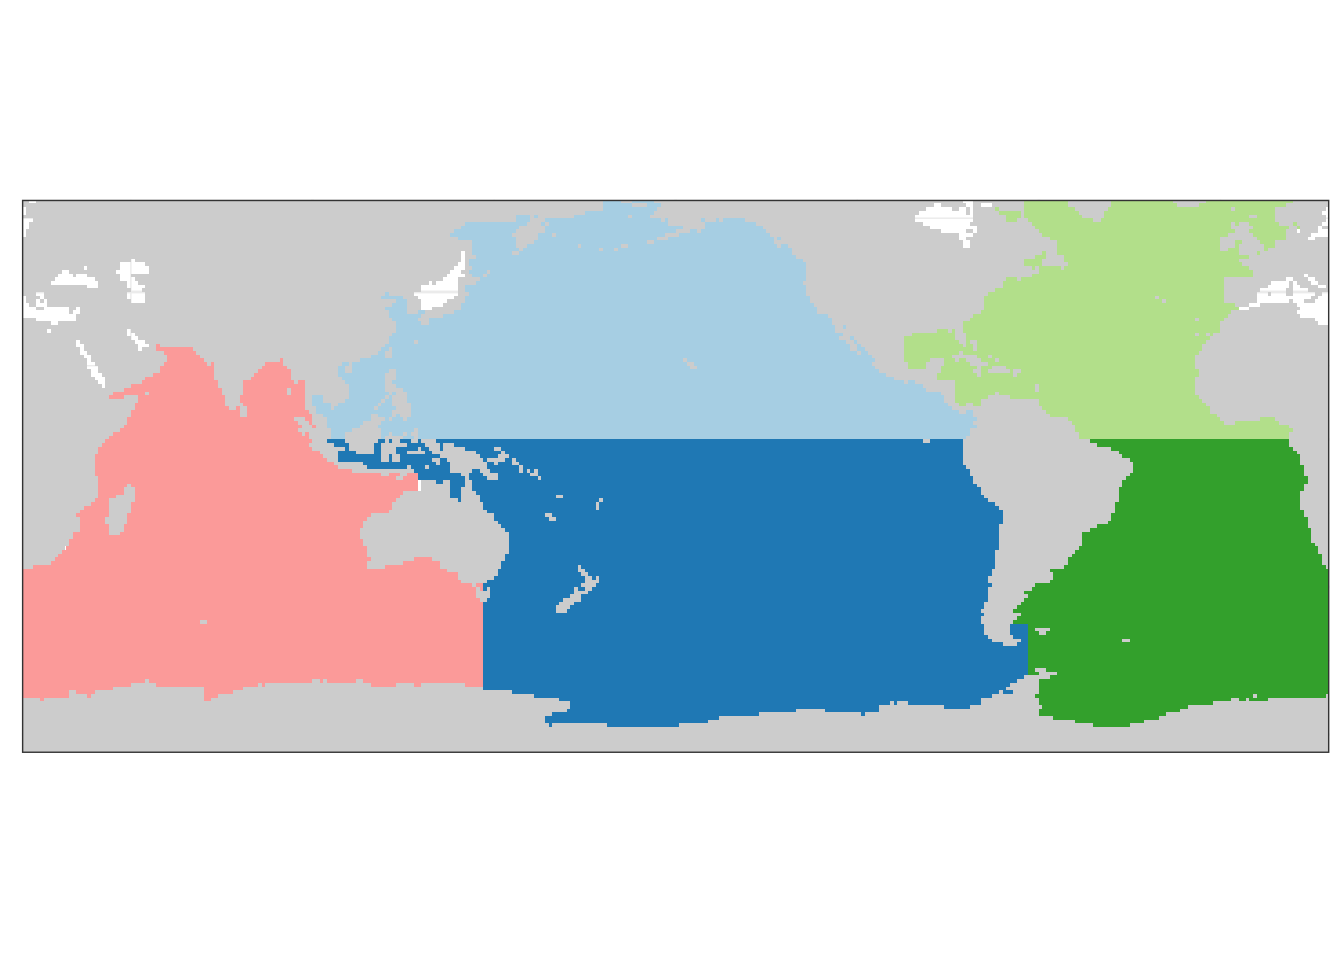
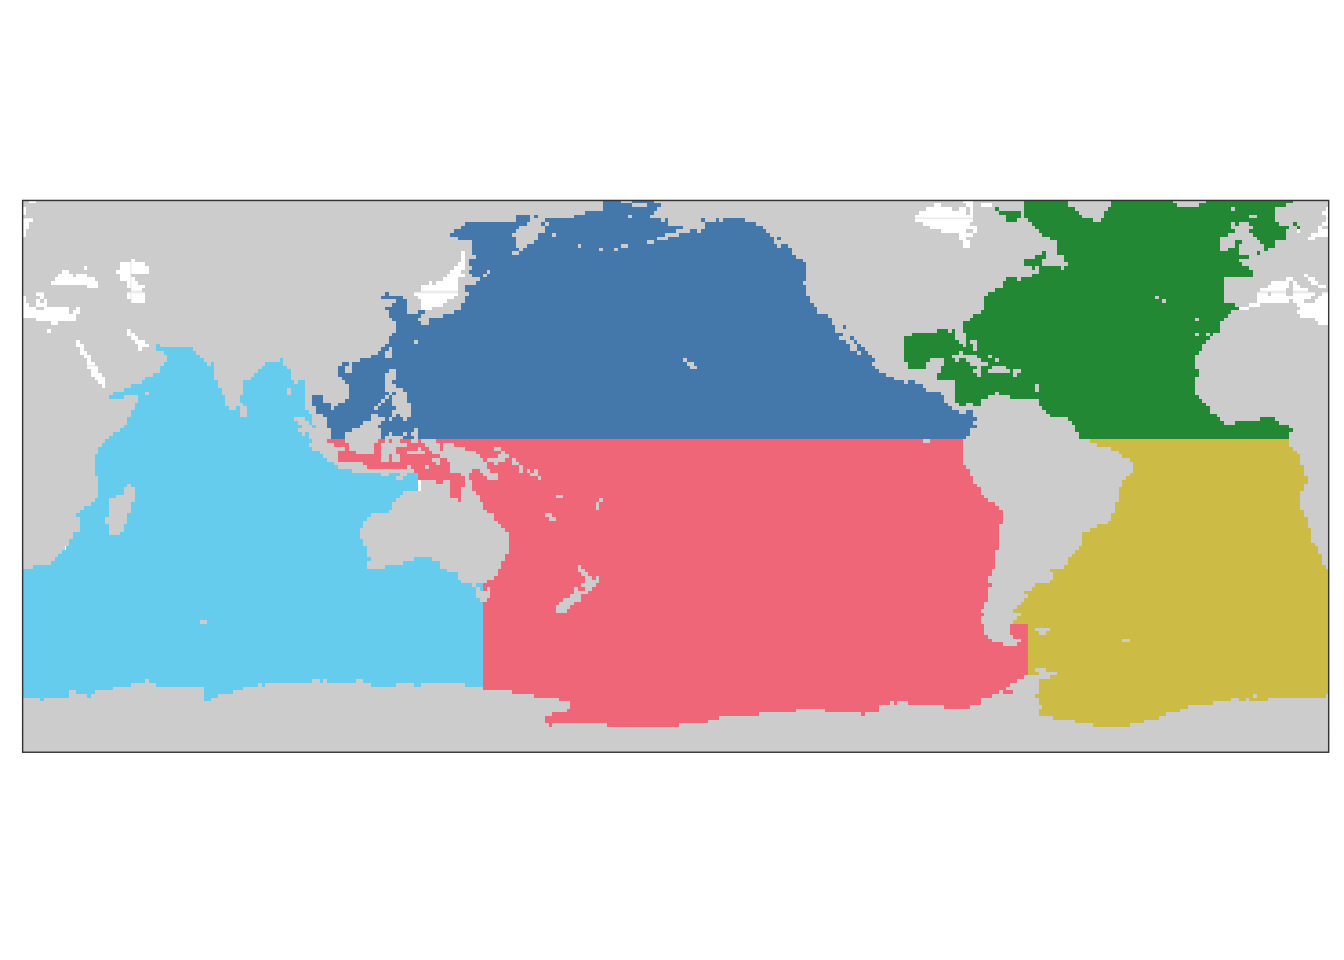
Build site.

diff --git a/docs/basics.html b/docs/basics.html
@@ -664,7 +664,7 @@ div.tocify {
 
 <h1 class="title toc-ignore">Basics</h1>
 <h4 class="author">Jens Daniel Müller</h4>
-<h4 class="date">16 July, 2022</h4>
+<h4 class="date">19 July, 2022</h4>
 
 </div>
 
@@ -689,7 +689,7 @@ div.tocify {
 <div class="tab-content">
 <div id="summary" class="tab-pane fade in active">
 <p>
-<strong>Last updated:</strong> 2022-07-16
+<strong>Last updated:</strong> 2022-07-19
 </p>
 <p>
 <strong>Checks:</strong> <span class="glyphicon glyphicon-ok text-success" aria-hidden="true"></span> 7 <span class="glyphicon glyphicon-exclamation-sign text-danger" aria-hidden="true"></span> 0
@@ -780,16 +780,16 @@ This reproducible <a href="https://rmarkdown.rstudio.com">R Markdown</a> analysi
 <div class="panel panel-default">
 <div class="panel-heading">
 <p class="panel-title">
-<a data-toggle="collapse" data-parent="#workflowr-checks" href="#strongRepositoryversionstrongahrefhttpsgithubcomjensdanielmuelleremlrobsanalysistreecbde57a62e380785062cba63180f365f9e36fa53targetblankcbde57aa"> <span class="glyphicon glyphicon-ok text-success" aria-hidden="true"></span> <strong>Repository version:</strong> <a href="https://github.com/jens-daniel-mueller/emlr_obs_analysis/tree/cbde57a62e380785062cba63180f365f9e36fa53" target="_blank">cbde57a</a> </a>
+<a data-toggle="collapse" data-parent="#workflowr-checks" href="#strongRepositoryversionstrongahrefhttpsgithubcomjensdanielmuelleremlrobsanalysistree97dcf0760c864a4e9e6668fa1faa23a069c2898ctargetblank97dcf07a"> <span class="glyphicon glyphicon-ok text-success" aria-hidden="true"></span> <strong>Repository version:</strong> <a href="https://github.com/jens-daniel-mueller/emlr_obs_analysis/tree/97dcf0760c864a4e9e6668fa1faa23a069c2898c" target="_blank">97dcf07</a> </a>
 </p>
 </div>
[2 lines of base64/hex data omitted]
 <div class="panel-body">
 <p>
 Great! You are using Git for version control. Tracking code development and connecting the code version to the results is critical for reproducibility.
 </p>
 <p>
-The results in this page were generated with repository version <a href="https://github.com/jens-daniel-mueller/emlr_obs_analysis/tree/cbde57a62e380785062cba63180f365f9e36fa53" target="_blank">cbde57a</a>. See the <em>Past versions</em> tab to see a history of the changes made to the R Markdown and HTML files.
+The results in this page were generated with repository version <a href="https://github.com/jens-daniel-mueller/emlr_obs_analysis/tree/97dcf0760c864a4e9e6668fa1faa23a069c2898c" target="_blank">97dcf07</a>. See the <em>Past versions</em> tab to see a history of the changes made to the R Markdown and HTML files.
 </p>
 <p>
 Note that you need to be careful to ensure that all relevant files for the analysis have been committed to Git prior to generating the results (you can use <code>wflow_publish</code> or <code>wflow_git_commit</code>). workflowr only checks the R Markdown file, but you know if there are other scripts or data files that it depends on. Below is the status of the Git repository when the results were generated:
@@ -847,6 +847,40 @@ Message
 </tr>
 </thead>
 <tbody>
+<tr>
+<td>
+Rmd
+</td>
+<td>
+<a href="https://github.com/jens-daniel-mueller/emlr_obs_analysis/blob/97dcf0760c864a4e9e6668fa1faa23a069c2898c/analysis/basics.Rmd" target="_blank">97dcf07</a>
+</td>
+<td>
+jens-daniel-mueller
+</td>
+<td>
+2022-07-19
+</td>
+<td>
+changed color scales
+</td>
+</tr>
+<tr>
+<td>
+html
+</td>
+<td>
+<a href="https://rawcdn.githack.com/jens-daniel-mueller/emlr_obs_analysis/08c00b4b24a747534f49b4bc7b9404472387fd81/docs/basics.html" target="_blank">08c00b4</a>
+</td>
+<td>
+jens-daniel-mueller
+</td>
+<td>
+2022-07-16
+</td>
+<td>
+Build site.
+</td>
+</tr>
 <tr>
 <td>
 html
@@ -1962,26 +1996,35 @@ jens-daniel-mueller
 #        height = 2,
 #        width = 10)
 
-ggsave(plot = p_time_histo_all,
-       path = here::here(&quot;output/publication&quot;),
-       filename = &quot;FigS_coverage_time_series.png&quot;,
-       height = 4,
-       width = 10)
+# ggsave(plot = p_time_histo_all,
+#        path = here::here(&quot;output/publication&quot;),
+#        filename = &quot;FigS_coverage_time_series.png&quot;,
+#        height = 4,
+#        width = 10)
 
 rm(
 p_time_histo_G19,
 p_time_histo_all
 )</code></pre>
-<pre class="r"><code>time_histo &lt;- GLODAP_preprocessed %&gt;% 
+<pre class="r"><code>time_histo &lt;- GLODAP_preprocessed %&gt;%
   filter(year &gt;= 1989,
-         year &lt;= 2020) %&gt;% 
-  count(year, basin_AIP)
+         year &lt;= 2020) %&gt;%
+  count(year, basin) %&gt;%
+  mutate(basin = fct_relevel(
+    basin,
+    &quot;N. Pacific&quot;,
+    &quot;S. Pacific&quot;,
+    &quot;N. Atlantic&quot;,
+    &quot;S. Atlantic&quot;,
+    &quot;Indian&quot;
+  ))
 
 p_time_histo_basin &lt;-
   time_histo %&gt;%
   ggplot() +
-  geom_col(aes(year, n, fill = basin_AIP)) +
-  scale_fill_brewer(palette = &quot;Dark2&quot;, name = &quot;Ocean\nbasin&quot;) +
+  geom_col(aes(year, n, fill = basin), col = &quot;black&quot;, size = 0.3, width = 0.7) +
+  # scale_fill_brewer(palette = &quot;Paired&quot;, name = &quot;Ocean\nbasin&quot;) +
+  scale_fill_bright(name = &quot;Ocean\nbasin&quot;) +
   scale_x_continuous(breaks = seq(1900, 2100, 5)) +
   scale_y_continuous(limits = c(0, NA), expand = c(0,0)) +
   labs(y = &quot;Observations per year&quot;) +
@@ -2059,11 +2102,11 @@ jens-daniel-mueller
 </table>
 </div>
 </div>
-<pre class="r"><code># ggsave(plot = p_time_histo_basin,
-#        path = here::here(&quot;output/publication&quot;),
-#        filename = &quot;FigS_time_series_observations.png&quot;,
-#        height = 2,
-#        width = 10)
+<pre class="r"><code>ggsave(plot = p_time_histo_basin,
+       path = here::here(&quot;output/publication&quot;),
+       filename = &quot;FigS_observations_coverage_time_series.png&quot;,
+       height = 4,
+       width = 10)
 
 rm(p_time_histo_basin)</code></pre>
 </div>
@@ -2071,7 +2114,18 @@ rm(p_time_histo_basin)</code></pre>
 <h1><span class="header-section-number">3</span> Basin maps</h1>
 <div id="mlr-basins" class="section level2" number="3.1">
 <h2><span class="header-section-number">3.1</span> MLR basins</h2>
-<pre class="r"><code>MLR_basins_in &lt;- c(&quot;1&quot;, &quot;2&quot;, &quot;AIP&quot;, &quot;SO_2&quot;, &quot;5&quot;, &quot;SO_AIP&quot;, &quot;SO&quot;)
+<pre class="r"><code>basinmask &lt;- basinmask %&gt;% 
+  mutate(
+    MLR_basins = case_when(
+      MLR_basins == &quot;AIP&quot; ~ &quot;3&quot;,
+      MLR_basins == &quot;SO_AIP&quot; ~ &quot;3+SO&quot;,
+      MLR_basins == &quot;SO_5&quot; ~ &quot;5+SO&quot;,
+      TRUE ~ MLR_basins
+    )
+  )
+
+
+MLR_basins_in &lt;- c(&quot;1&quot;, &quot;2&quot;, &quot;3&quot;, &quot;5&quot;, &quot;3+SO&quot;, &quot;5+SO&quot;)
 
 basinmask &lt;- basinmask %&gt;%
   filter(MLR_basins %in% MLR_basins_in)
@@ -2086,7 +2140,7 @@ basin_maps &lt;-
   map +
   geom_raster(data = basinmask,
               aes(lon, lat, fill = basin)) +
-  scale_fill_brewer(palette = &quot;Dark2&quot;, guide = &quot;none&quot;) +
+  scale_fill_muted(guide = &quot;none&quot;) +
   facet_wrap( ~ MLR_basins) +
   theme(axis.text = element_blank(),
         axis.ticks = element_blank())
@@ -2177,7 +2231,7 @@ jens-daniel-mueller
 <pre class="r"><code>ggsave(plot = basin_maps,
        path = here::here(&quot;output/publication&quot;),
        filename = &quot;FigS_basin_masks.png&quot;,
-       height = 5,
+       height = 4,
        width = 10)</code></pre>
 </div>
 <div id="basins" class="section level2" number="3.2">
@@ -2219,7 +2273,7 @@ basin_maps &lt;-
   map +
   geom_raster(data = basinmask,
               aes(lon, lat, fill = basin)) +
-  scale_fill_brewer(palette = &quot;Paired&quot;, guide = &quot;none&quot;) +
+  scale_fill_bright(guide = &quot;none&quot;) +
   theme(axis.text = element_blank(),
         axis.ticks = element_blank(),
         legend.title = element_blank())
@@ -2520,11 +2574,11 @@ attached base packages:
 [1] stats     graphics  grDevices utils     datasets  methods   base     
 
 other attached packages:
- [1] colorspace_2.0-2 marelac_2.1.10   shape_1.4.6      ggforce_0.3.3   
- [5] metR_0.11.0      scico_1.3.0      patchwork_1.1.1  collapse_1.7.0  
- [9] forcats_0.5.1    stringr_1.4.0    dplyr_1.0.7      purrr_0.3.4     
-[13] readr_2.1.1      tidyr_1.1.4      tibble_3.1.6     ggplot2_3.3.5   
-[17] tidyverse_1.3.1  workflowr_1.7.0 
+ [1] khroma_1.9.0     colorspace_2.0-2 marelac_2.1.10   shape_1.4.6     
+ [5] ggforce_0.3.3    metR_0.11.0      scico_1.3.0      patchwork_1.1.1 
+ [9] collapse_1.7.0   forcats_0.5.1    stringr_1.4.0    dplyr_1.0.7     
+[13] purrr_0.3.4      readr_2.1.1      tidyr_1.1.4      tibble_3.1.6    
+[17] ggplot2_3.3.5    tidyverse_1.3.1  workflowr_1.7.0 
 
 loaded via a namespace (and not attached):
  [1] fs_1.5.2           bit64_4.0.5        lubridate_1.8.0    gsw_1.0-6         

diff --git a/docs/index.html b/docs/index.html
@@ -698,16 +698,16 @@ This reproducible <a href="https://rmarkdown.rstudio.com">R Markdown</a> analysi
 <div class="panel panel-default">
 <div class="panel-heading">
 <p class="panel-title">
-<a data-toggle="collapse" data-parent="#workflowr-checks" href="#strongRepositoryversionstrongahrefhttpsgithubcomjensdanielmuelleremlrobsanalysistreeaaf37cf8d1d843c0fb3e2f1e817eef0983487b83targetblankaaf37cfa"> <span class="glyphicon glyphicon-ok text-success" aria-hidden="true"></span> <strong>Repository version:</strong> <a href="https://github.com/jens-daniel-mueller/emlr_obs_analysis/tree/aaf37cf8d1d843c0fb3e2f1e817eef0983487b83" target="_blank">aaf37cf</a> </a>
+<a data-toggle="collapse" data-parent="#workflowr-checks" href="#strongRepositoryversionstrongahrefhttpsgithubcomjensdanielmuelleremlrobsanalysistree97dcf0760c864a4e9e6668fa1faa23a069c2898ctargetblank97dcf07a"> <span class="glyphicon glyphicon-ok text-success" aria-hidden="true"></span> <strong>Repository version:</strong> <a href="https://github.com/jens-daniel-mueller/emlr_obs_analysis/tree/97dcf0760c864a4e9e6668fa1faa23a069c2898c" target="_blank">97dcf07</a> </a>
 </p>
 </div>
[2 lines of base64/hex data omitted]
 <div class="panel-body">
 <p>
 Great! You are using Git for version control. Tracking code development and connecting the code version to the results is critical for reproducibility.
 </p>
 <p>
-The results in this page were generated with repository version <a href="https://github.com/jens-daniel-mueller/emlr_obs_analysis/tree/aaf37cf8d1d843c0fb3e2f1e817eef0983487b83" target="_blank">aaf37cf</a>. See the <em>Past versions</em> tab to see a history of the changes made to the R Markdown and HTML files.
+The results in this page were generated with repository version <a href="https://github.com/jens-daniel-mueller/emlr_obs_analysis/tree/97dcf0760c864a4e9e6668fa1faa23a069c2898c" target="_blank">97dcf07</a>. See the <em>Past versions</em> tab to see a history of the changes made to the R Markdown and HTML files.
 </p>
 <p>
 Note that you need to be careful to ensure that all relevant files for the analysis have been committed to Git prior to generating the results (you can use <code>wflow_publish</code> or <code>wflow_git_commit</code>). workflowr only checks the R Markdown file, but you know if there are other scripts or data files that it depends on. Below is the status of the Git repository when the results were generated:
@@ -725,7 +725,6 @@ Untracked files:
 
 Unstaged changes:
     Modified:   analysis/_site.yml
-    Modified:   analysis/basics.Rmd
     Modified:   analysis/child/budget_analysis_plot_data.Rmd
     Modified:   code/Workflowr_project_managment.R
 
@@ -766,6 +765,23 @@ Message
 </tr>
 </thead>
 <tbody>
+<tr>
+<td>
+html
+</td>
+<td>
+<a href="https://rawcdn.githack.com/jens-daniel-mueller/emlr_obs_analysis/9ce772d1fa10df2277d827039eb64756e7670be7/docs/index.html" target="_blank">9ce772d</a>
+</td>
+<td>
+jens-daniel-mueller
+</td>
+<td>
+2022-07-19
+</td>
+<td>
+Build site.
+</td>
+</tr>
 <tr>
 <td>
 html
